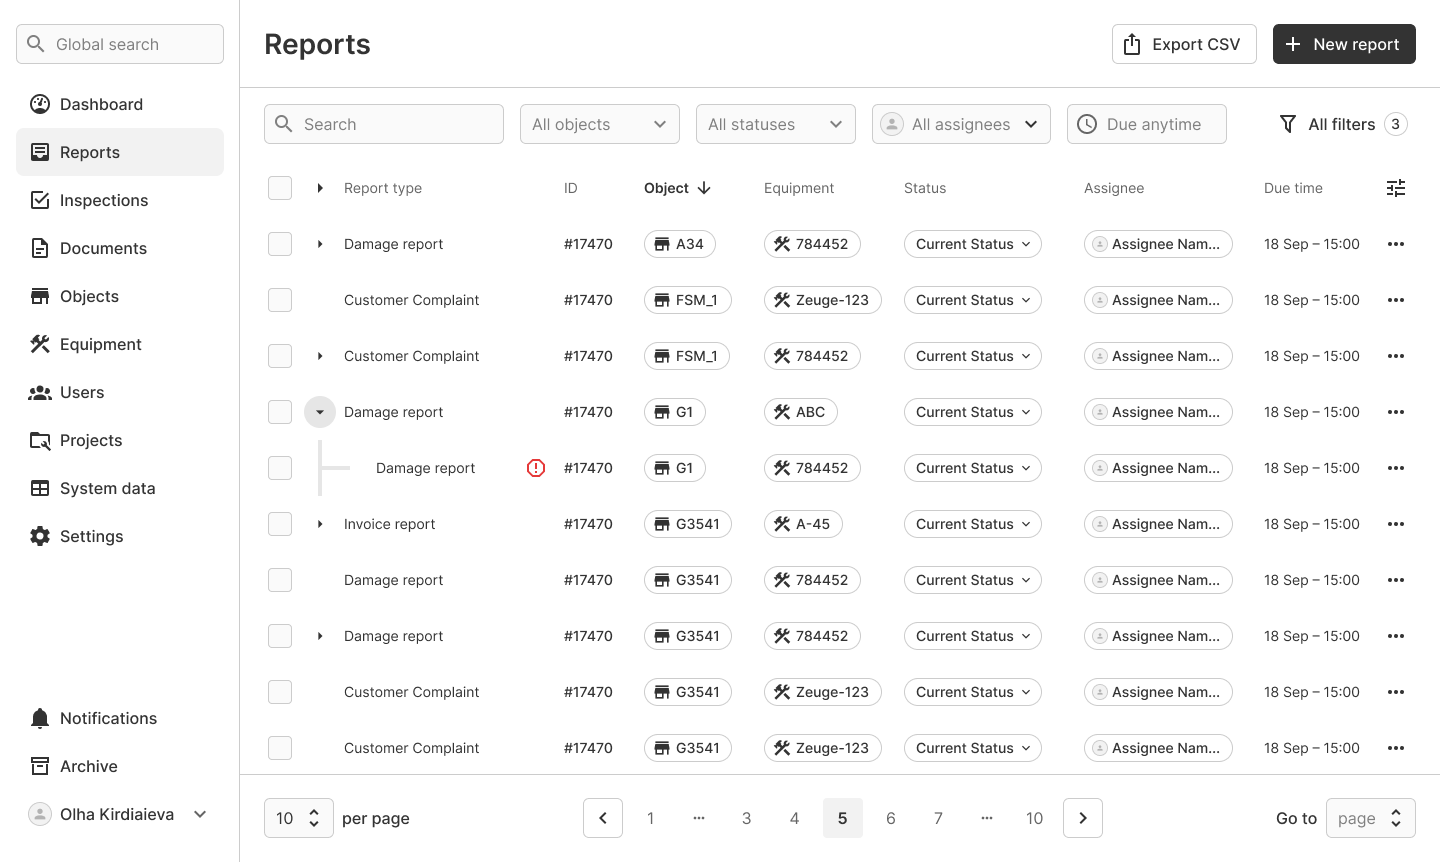
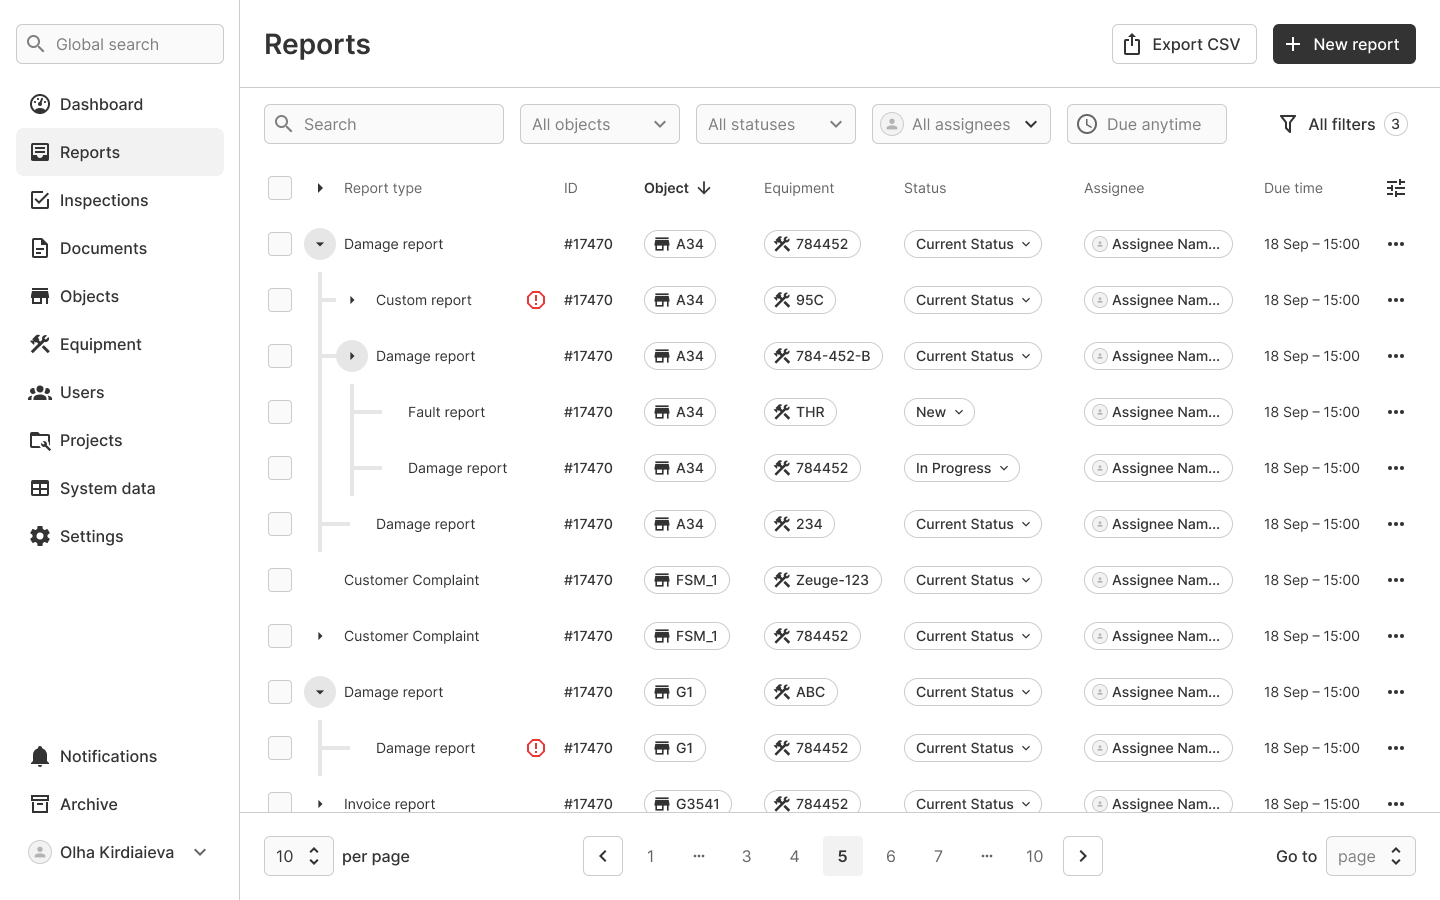
Equipment case redesign

diff --git a/styles.css b/styles.css
@@ -360,6 +360,82 @@ a.case-card .cc-tags .chip { font-size: 12px; padding: 4px 10px; }
 }
 .md-figure span { padding: 0 16px; }
 
+/* ![[compare: before.png | after.png]] before/after slider */
+.md-compare {
+  position: relative;
+  width: 100%;
+  margin: 32px 0 48px;
+  border-radius: 8px;
+  border: 1px solid var(--line);
+  overflow: hidden;
+  user-select: none;
+  touch-action: none;
+  cursor: ew-resize;
+  line-height: 0;
+  box-shadow: 0 1px 2px rgba(60,50,35,.05), 0 22px 46px -32px rgba(60,50,35,.32);
+}
+.md-compare .cmp-img {
+  display: block;
+  width: 100%;
+  height: 100%;
+  margin: 0;
+  border: none;
+  border-radius: 0;
+  box-shadow: none;
+  object-fit: cover;
+  -webkit-user-drag: none;
+}
+.md-compare .cmp-before-wrap {
+  position: absolute;
+  inset: 0;
+  overflow: hidden;
+  clip-path: inset(0 calc(100% - var(--pos)) 0 0);
+}
+.md-compare .cmp-before-wrap .cmp-before { position: absolute; inset: 0; }
+
+/* divider line + grip */
+.md-compare .cmp-handle {
+  position: absolute;
+  top: 0;
+  bottom: 0;
+  left: var(--pos);
+  width: 2px;
+  transform: translateX(-1px);
+  display: flex;
+  align-items: center;
+  justify-content: center;
+  outline: none;
+}
+.md-compare .cmp-line {
+  position: absolute;
+  top: 0;
+  bottom: 0;
+  left: 50%;
+  width: 2px;
+  transform: translateX(-50%);
+  background: var(--accent);
+}
+.md-compare .cmp-grip {
+  position: relative;
+  flex: 0 0 auto;
+  width: 32px;
+  height: 32px;
+  border-radius: 50%;
+  background: var(--accent);
+  border: none;
+  color: #fff;
+  display: flex;
+  align-items: center;
+  justify-content: center;
+  font-size: 20px;
+  box-shadow: 0 1px 2px rgba(60,50,35,.08), 0 8px 18px -10px rgba(60,50,35,.4);
+  transition: transform .12s ease, box-shadow .12s ease;
+}
+.md-compare .cmp-handle:hover .cmp-grip,
+.md-compare .cmp-handle:focus-visible .cmp-grip,
+.md-compare.is-dragging .cmp-grip { transform: scale(1.08); }
+.md-compare .cmp-handle:focus-visible .cmp-grip { box-shadow: 0 0 0 3px var(--accent-wash), 0 8px 18px -10px rgba(60,50,35,.4); }
+
 /* post-it notes strip */
 .cs-sticky-row { display: flex; flex-wrap: wrap; justify-content: center; gap: 24px; max-width: 760px; margin: 48px auto 0; }
 .cs-sticky-row .sticky { position: relative; flex: 0 0 auto; width: 168px; aspect-ratio: 1 / 1; padding: 16px 20px 20px; border-radius: 2px; box-shadow: 0 1px 2px rgba(60,50,35,.05), 0 12px 26px -20px rgba(60,50,35,.3); }

diff --git a/js/site.js b/js/site.js
@@ -24,16 +24,78 @@ function parseFrontmatter(raw) {
   return { meta, body: (match[2] || "").trim() };
 }
 
+/* Bare names resolve to the images/ folder; paths with a slash are used as-is. */
+function resolveEmbedSrc(name) {
+  return name.includes("/") ? name : `images/${name}`;
+}
+
 /* Obsidian-style ![[file.png]] -> real <img>, with the striped paper
    placeholder shown only when the file is missing (handled by
    hookEmbedFallbacks after the markup is inserted).
-   Bare names resolve to the images/ folder; paths with a slash are used as-is. */
+
+   Before/after redesign slider — opt in per image with the `compare:` prefix:
+     ![[compare: before.png | after.png]]
+   Renders a draggable vertical divider: `before` shows left of the line,
+   `after` to the right. Both images should share the same dimensions. */
 function replaceObsidianEmbeds(md) {
   return md.replace(/!\[\[([^\]]+)\]\]/g, (_, raw) => {
-    const name = String(raw).trim();
-    const src = name.includes("/") ? name : `images/${name}`;
-    const label = name.replace(/^.*\//, "").replace(/\.[a-z0-9]+$/i, "").trim();
+    const inner = String(raw).trim();
+
+    const cmp = inner.match(/^compare\s*:\s*(.+)$/i);
+    if (cmp) {
+      const parts = cmp[1].split("|").map((s) => s.trim()).filter(Boolean);
+      if (parts.length === 2) {
+        const [before, after] = parts;
+        return `\n<div class="md-compare" style="--pos:50%">` +
+          `<img class="cmp-img cmp-after" src="${escapeHtml(resolveEmbedSrc(after))}" alt="After redesign" draggable="false" />` +
+          `<div class="cmp-before-wrap"><img class="cmp-img cmp-before" src="${escapeHtml(resolveEmbedSrc(before))}" alt="Before redesign" draggable="false" /></div>` +
+          `<div class="cmp-handle" role="slider" tabindex="0" aria-label="Drag to compare before and after" aria-valuemin="0" aria-valuemax="100" aria-valuenow="50">` +
+          `<span class="cmp-line"></span>` +
+          `<span class="cmp-grip"><i class="ti ti-arrows-move-horizontal"></i></span>` +
+          `</div></div>\n`;
+      }
+    }
+
+    const src = resolveEmbedSrc(inner);
+    const label = inner.replace(/^.*\//, "").replace(/\.[a-z0-9]+$/i, "").trim();
     return `\n<img class="md-embed" src="${escapeHtml(src)}" alt="${escapeHtml(label)}" data-label="${escapeHtml(label)}" />\n`;
+  });
+}
+
+/* Wire up drag/keyboard interaction for each before/after slider. */
+function initCompare(root = document) {
+  root.querySelectorAll(".md-compare").forEach((el) => {
+    const handle = el.querySelector(".cmp-handle");
+    let dragging = false;
+
+    const setPct = (pct) => {
+      pct = Math.max(0, Math.min(100, pct));
+      el.style.setProperty("--pos", pct + "%");
+      handle.setAttribute("aria-valuenow", Math.round(pct));
+    };
+    const setFromX = (clientX) => {
+      const rect = el.getBoundingClientRect();
+      setPct(((clientX - rect.left) / rect.width) * 100);
+    };
+
+    el.addEventListener("pointerdown", (e) => {
+      dragging = true;
+      el.classList.add("is-dragging");
+      el.setPointerCapture?.(e.pointerId);
+      setFromX(e.clientX);
+    });
+    el.addEventListener("pointermove", (e) => { if (dragging) setFromX(e.clientX); });
+    const stop = () => { dragging = false; el.classList.remove("is-dragging"); };
+    el.addEventListener("pointerup", stop);
+    el.addEventListener("pointercancel", stop);
+
+    handle.addEventListener("keydown", (e) => {
+      const cur = parseFloat(el.style.getPropertyValue("--pos")) || 50;
+      if (e.key === "ArrowLeft") { e.preventDefault(); setPct(cur - 2); }
+      else if (e.key === "ArrowRight") { e.preventDefault(); setPct(cur + 2); }
+      else if (e.key === "Home") { e.preventDefault(); setPct(0); }
+      else if (e.key === "End") { e.preventDefault(); setPct(100); }
+    });
   });
 }
 
@@ -241,6 +303,7 @@ async function renderCaseStudy(rootEl) {
     </div>`;
 
   hookEmbedFallbacks(rootEl);
+  initCompare(rootEl);
 }
 
 function notFoundMarkup(message) {

diff --git a/content/case-studies/2022-gas-stations.md b/content/case-studies/2022-gas-stations.md
@@ -1,10 +1,10 @@
 ---
 title: B2B Gas Station Maintenance
-summary: "Simplifying workflows and improving usability of a 20-year-old gas station maintenance system."
-tags: [B2B, SaaS, Operations, UX, Research]
+summary: "Simplifying workflows and improving usability of a 20-year-old gas station maintenance system with 5 000+ automated stations."
+tags: [B2B, SaaS, Operations, UX, Research, Redesign]
 year: 2022
 gradient: 4
-cover: images/reports-cover.png
+cover: images/reports-kanban-ui-cover.png
 sticky_goal: "Improve usability and simplify workflows for different user types"
 sticky_challenge: "Designing for conservative power users with fully customizable workflows"
 sticky_role: "Research, user interviews, IA, user flow, UX design, prototyping"
@@ -35,11 +35,11 @@ The next step was to conduct user interviews and understand the relevant workflo
 
 While analyzing the information architecture, I realized it contained a very similar entity to a support ticket. This gave me the idea to reuse a pattern from task management systems and introduce a Kanban board. This layout would improve usability for users who process lots of tickets and update their statuses.
 
-![[reports-kanban.png]]
+![[compare: reports-kanban.png | reports-kanban-ui.png]]
 
 Although the client liked the Kanban view at first, it was eventually rejected. The reason was that all statuses were fully customizable, and every customer would have a different set depending on their workflow. And most importantly, not all workflows were linear, so it didn’t make sense to visualize them this way. As a result, we decided to stick with the table view.
 
-![[reports-table.png]]
+![[compare: reports-table.png | reports-table-ui.png]]
 
 Even though we decided to keep the original layout, I introduced some UX changes to improve usability:
 